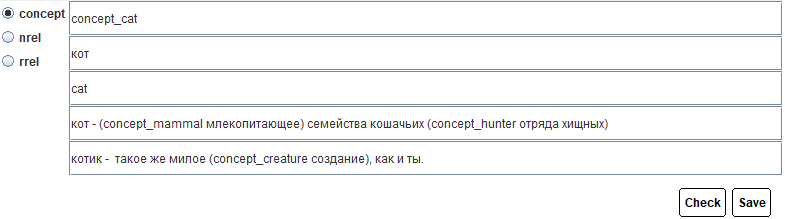
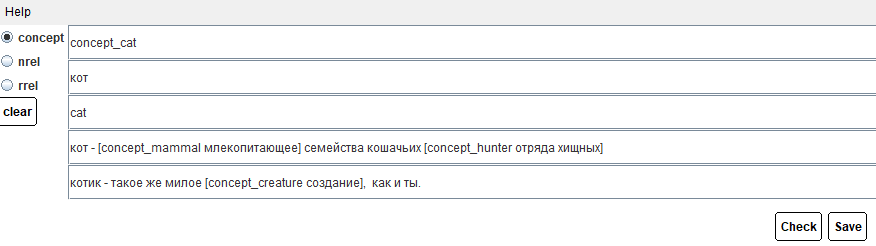
feat: refactor

diff --git a/src/main/java/org/bsuir/scs/creator/CustomCreator.java b/src/main/java/org/bsuir/scs/creator/CustomCreator.java
@@ -37,10 +37,15 @@ public abstract class CustomCreator {
         stringBuilder.append("<- " + DefaultParameters.DEFINITION + ";;\n");
         stringBuilder.append("=> " + DefaultParameters.MAIN_IDTF + ":\n");
         stringBuilder.append("\t[Опр. (").append(russianIdentifier).append(")] ").append(DefaultParameters.RUSSIAN_LANGUAGE).append(";;\n");
-        stringBuilder.append("=> " + DefaultParameters.USING_CONSTANTS + ":\n");
-        stringBuilder.append("\t{\n");
-        stringBuilder.append(constants);
-        stringBuilder.append("\t};;\n");
+
+        if (!constants.isEmpty()) {
+            stringBuilder.append("=> " + DefaultParameters.USING_CONSTANTS + ":\n");
+            stringBuilder.append("\t{\n");
+            stringBuilder.append(constants);
+            stringBuilder.append("\t};;\n");
+        }
+
+
         stringBuilder.append("<= " + DefaultParameters.TEXT_TRANSLATION + ": ...\n");
         stringBuilder.append("\t(*\n");
         stringBuilder.append("\t\t-> " + DefaultParameters.EXAMPLE + ":\n");
@@ -73,11 +78,12 @@ public abstract class CustomCreator {
         stringBuilder.append("<- " + DefaultParameters.STATEMENT + ";;\n");
         stringBuilder.append("=> " + DefaultParameters.MAIN_IDTF + ":\n");
         stringBuilder.append("\t[Утв. (").append(russianIdentifier).append(")] ").append(DefaultParameters.RUSSIAN_LANGUAGE).append(";;\n");
-        ;
-        stringBuilder.append("=> " + DefaultParameters.USING_CONSTANTS + ":\n");
-        stringBuilder.append("\t{\n");
-        stringBuilder.append(constants);
-        stringBuilder.append("\t};;\n");
+        if (!constants.isEmpty()) {
+            stringBuilder.append("=> " + DefaultParameters.USING_CONSTANTS + ":\n");
+            stringBuilder.append("\t{\n");
+            stringBuilder.append(constants);
+            stringBuilder.append("\t};;\n");
+        }
         stringBuilder.append("<= " + DefaultParameters.TEXT_TRANSLATION + ": ...\n");
         stringBuilder.append("\t(*\n");
         stringBuilder.append("\t\t-> " + DefaultParameters.EXAMPLE + ":\n");

diff --git a/src/main/java/org/bsuir/scs/controller/MainFrameController.java b/src/main/java/org/bsuir/scs/controller/MainFrameController.java
@@ -42,12 +42,14 @@ public class MainFrameController {
     private final JCheckBox[] rrelCheckBoxes;
     private final JButton checkBottom;
     private final JButton saveButton;
+    private final JButton clearButton;
 
     private final JPanel cards;
 
     public MainFrameController(ButtonGroup buttonGroup, JRadioButton[] radioButtons, JTextField[] conceptTextFields,
                                JTextField[] nrelTextFields, JTextField[] rrelTextFields, JCheckBox[] nrelCheckBoxes,
-                               JCheckBox[] rrelCheckBoxes, JPanel cards, JButton checkBottom, JButton saveButton) {
+                               JCheckBox[] rrelCheckBoxes, JPanel cards, JButton checkBottom, JButton saveButton,
+                               JButton clearButton) {
         this.buttonGroup = buttonGroup;
         this.radioButtons = radioButtons;
         this.conceptTextFields = conceptTextFields;
@@ -58,9 +60,28 @@ public class MainFrameController {
         this.cards = cards;
         this.checkBottom = checkBottom;
         this.saveButton = saveButton;
+        this.clearButton = clearButton;
         addRadioButtonListener();
         addCheckButtonListener();
         addSaveButtonListener();
+        addClearButtonListener();
+    }
+
+    private void addClearButtonListener() {
+        clearButton.addActionListener(new AbstractAction() {
+            @Override
+            public void actionPerformed(ActionEvent e) {
+                for (int i = 0; i < conceptTextFields.length; ++i) {
+                    conceptTextFields[i].setText("");
+                }
+                for (int i = 0; i < nrelTextFields.length; ++i) {
+                    nrelTextFields[i].setText("");
+                }
+                for (int i = 0; i < rrelTextFields.length; ++i) {
+                    rrelTextFields[i].setText("");
+                }
+            }
+        });
     }
 
     private void addSaveButtonListener() {

diff --git a/src/main/java/org/bsuir/scs/parser/ConstantsParser.java b/src/main/java/org/bsuir/scs/parser/ConstantsParser.java
@@ -13,7 +13,7 @@ public class ConstantsParser {
 
         int i = 0;
         while (i < string.length()) {
-            if (string.charAt(i) == '(') {
+            if (string.charAt(i) == '[') {
                 int beginIndex = ++i;
 
                 while (string.charAt(++i) != ' ');
@@ -30,14 +30,14 @@ public class ConstantsParser {
         StringBuilder stringBuilder = new StringBuilder();
 //todo ( amount should be equal )
         for (int i = 0; i < string.length(); ++i) {
-            if (string.charAt(i) == '(') {
+            if (string.charAt(i) == '[') {
                 stringBuilder.append(DefaultParameters.LINK_START);
 
                 while (string.charAt(++i) != ' ') {
                     stringBuilder.append(string.charAt(i));
                 }
                 stringBuilder.append("\">");
-            } else if (string.charAt(i) == ')') {
+            } else if (string.charAt(i) == ']') {
                 stringBuilder.append(DefaultParameters.LINK_END);
             } else {
                 stringBuilder.append(string.charAt(i));

diff --git a/src/main/java/org/bsuir/scs/view/MainFrame.java b/src/main/java/org/bsuir/scs/view/MainFrame.java
@@ -35,7 +35,8 @@ public class MainFrame {
         new MainFrameController(typeChooserBuilder.getButtonGroup(), typeChooserBuilder.getRadioButtons(),
                 typeCardsBuilder.getConceptTextFields(), typeCardsBuilder.getNrelTextFields(),
                 typeCardsBuilder.getRrelTextFields(), typeCardsBuilder.getNrelCheckBoxes(), typeCardsBuilder.getRrelCheckBoxes(),
-                typeCardsBuilder.getCards(), controlButtonsBuilder.getCheckButton(), controlButtonsBuilder.getSaveButton());
+                typeCardsBuilder.getCards(), controlButtonsBuilder.getCheckButton(), controlButtonsBuilder.getSaveButton()
+                ,typeChooserBuilder.getClearButton());
     }
 
     private void setFrame() {

diff --git a/src/main/java/org/bsuir/scs/view/HelperView.java b/src/main/java/org/bsuir/scs/view/HelperView.java
@@ -30,7 +30,7 @@ public class HelperView {
 
         JLabel howToUseLabel = new JLabel("How to use it?\n");
         JLabel dontUseLabel = new JLabel("Don't use it\n");
-        JLabel constantsExplanation = new JLabel("To add constants and its html links, you have to pass it in brackets");
+        JLabel constantsExplanation = new JLabel("To add constants and its html links, you have to pass it in square brackets");
         JLabel exampleText = new JLabel("Example:");
 
         Image exampleImage = new ImageIcon(Objects.requireNonNull(this.getClass().getResource("/images/example.png"))).getImage();

diff --git a/src/main/java/org/bsuir/scs/creator/RrelCreator.java b/src/main/java/org/bsuir/scs/creator/RrelCreator.java
@@ -28,7 +28,6 @@ public class RrelCreator extends CustomCreator {
 
     @Override
     public void create() {
-        //todo add constants parser
         StringBuilder stringBuilder = new StringBuilder();
 
         stringBuilder.append(createHeader());
